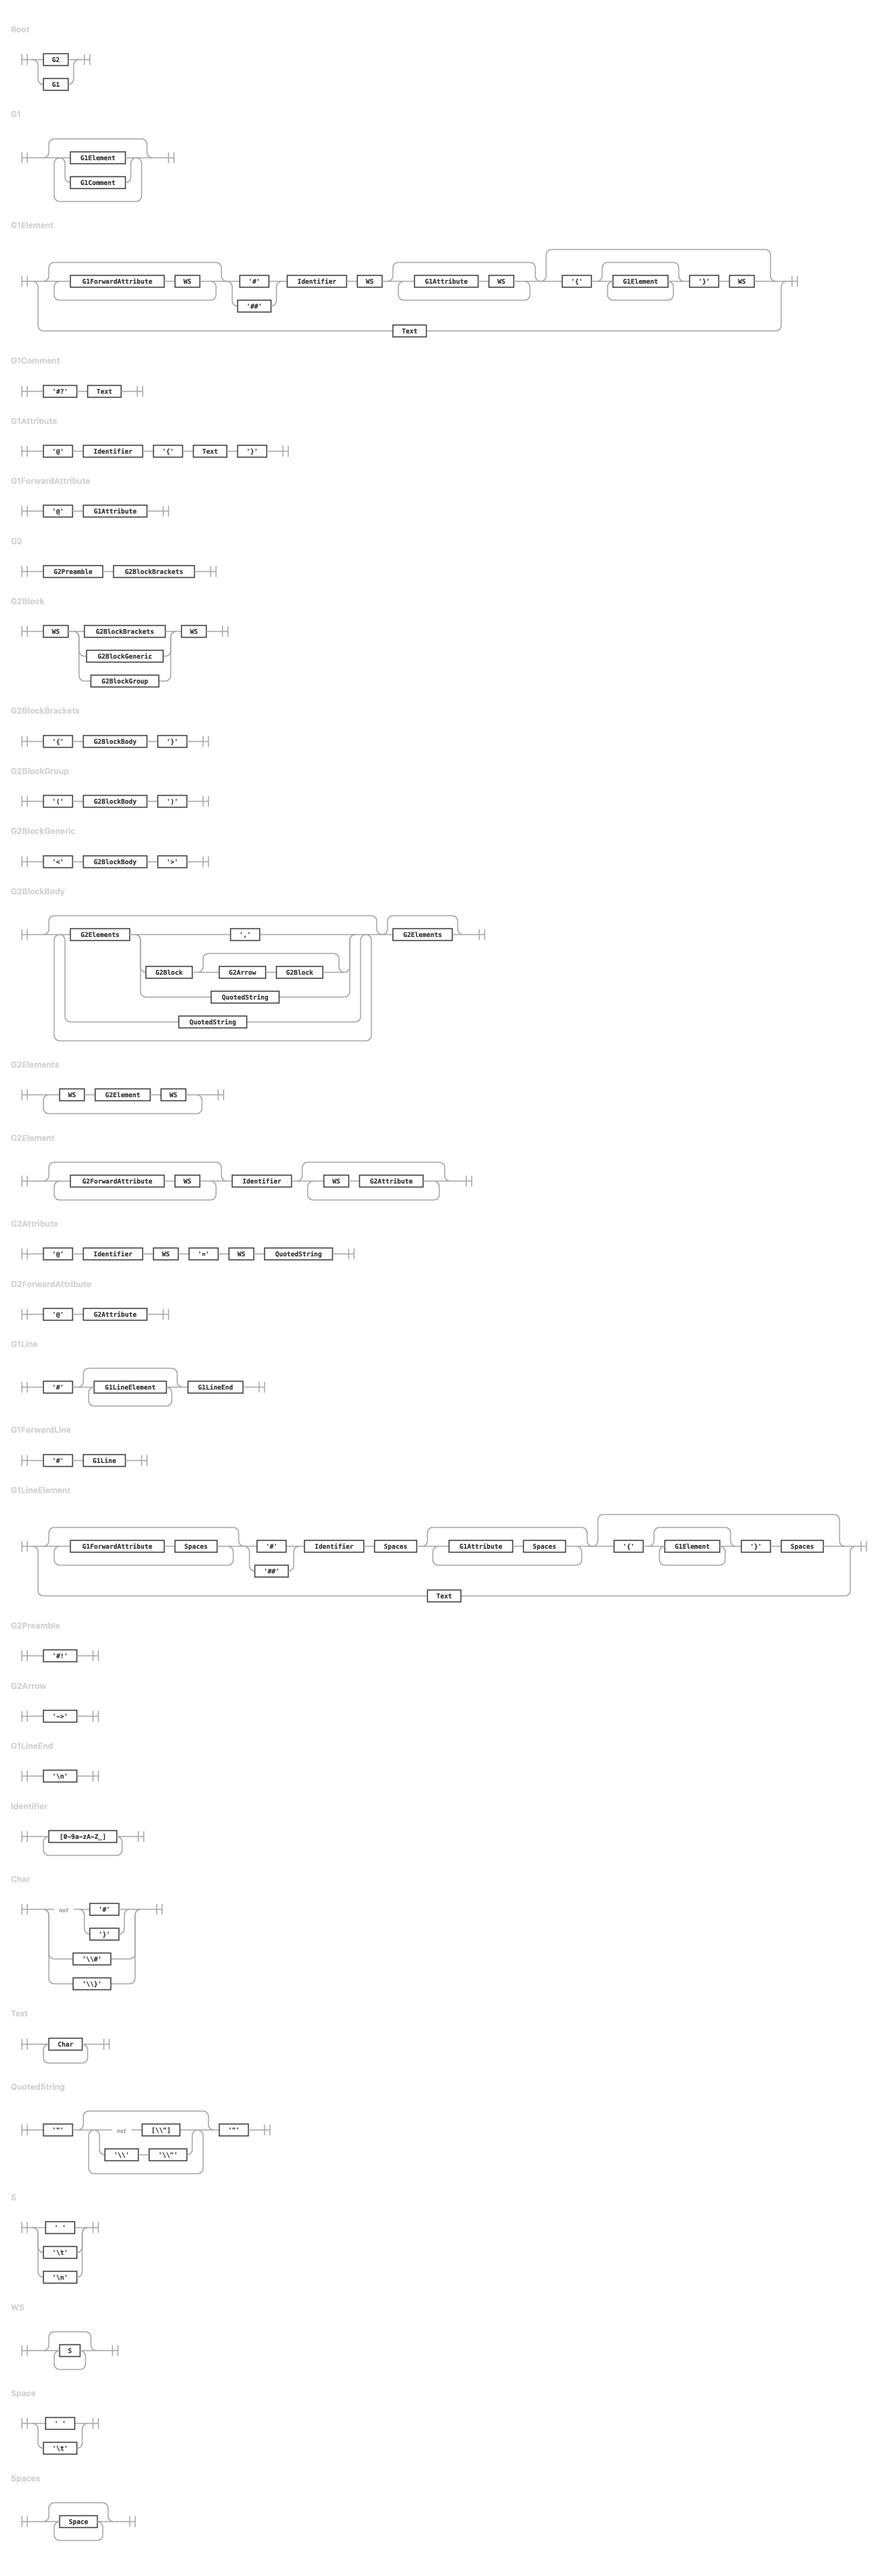
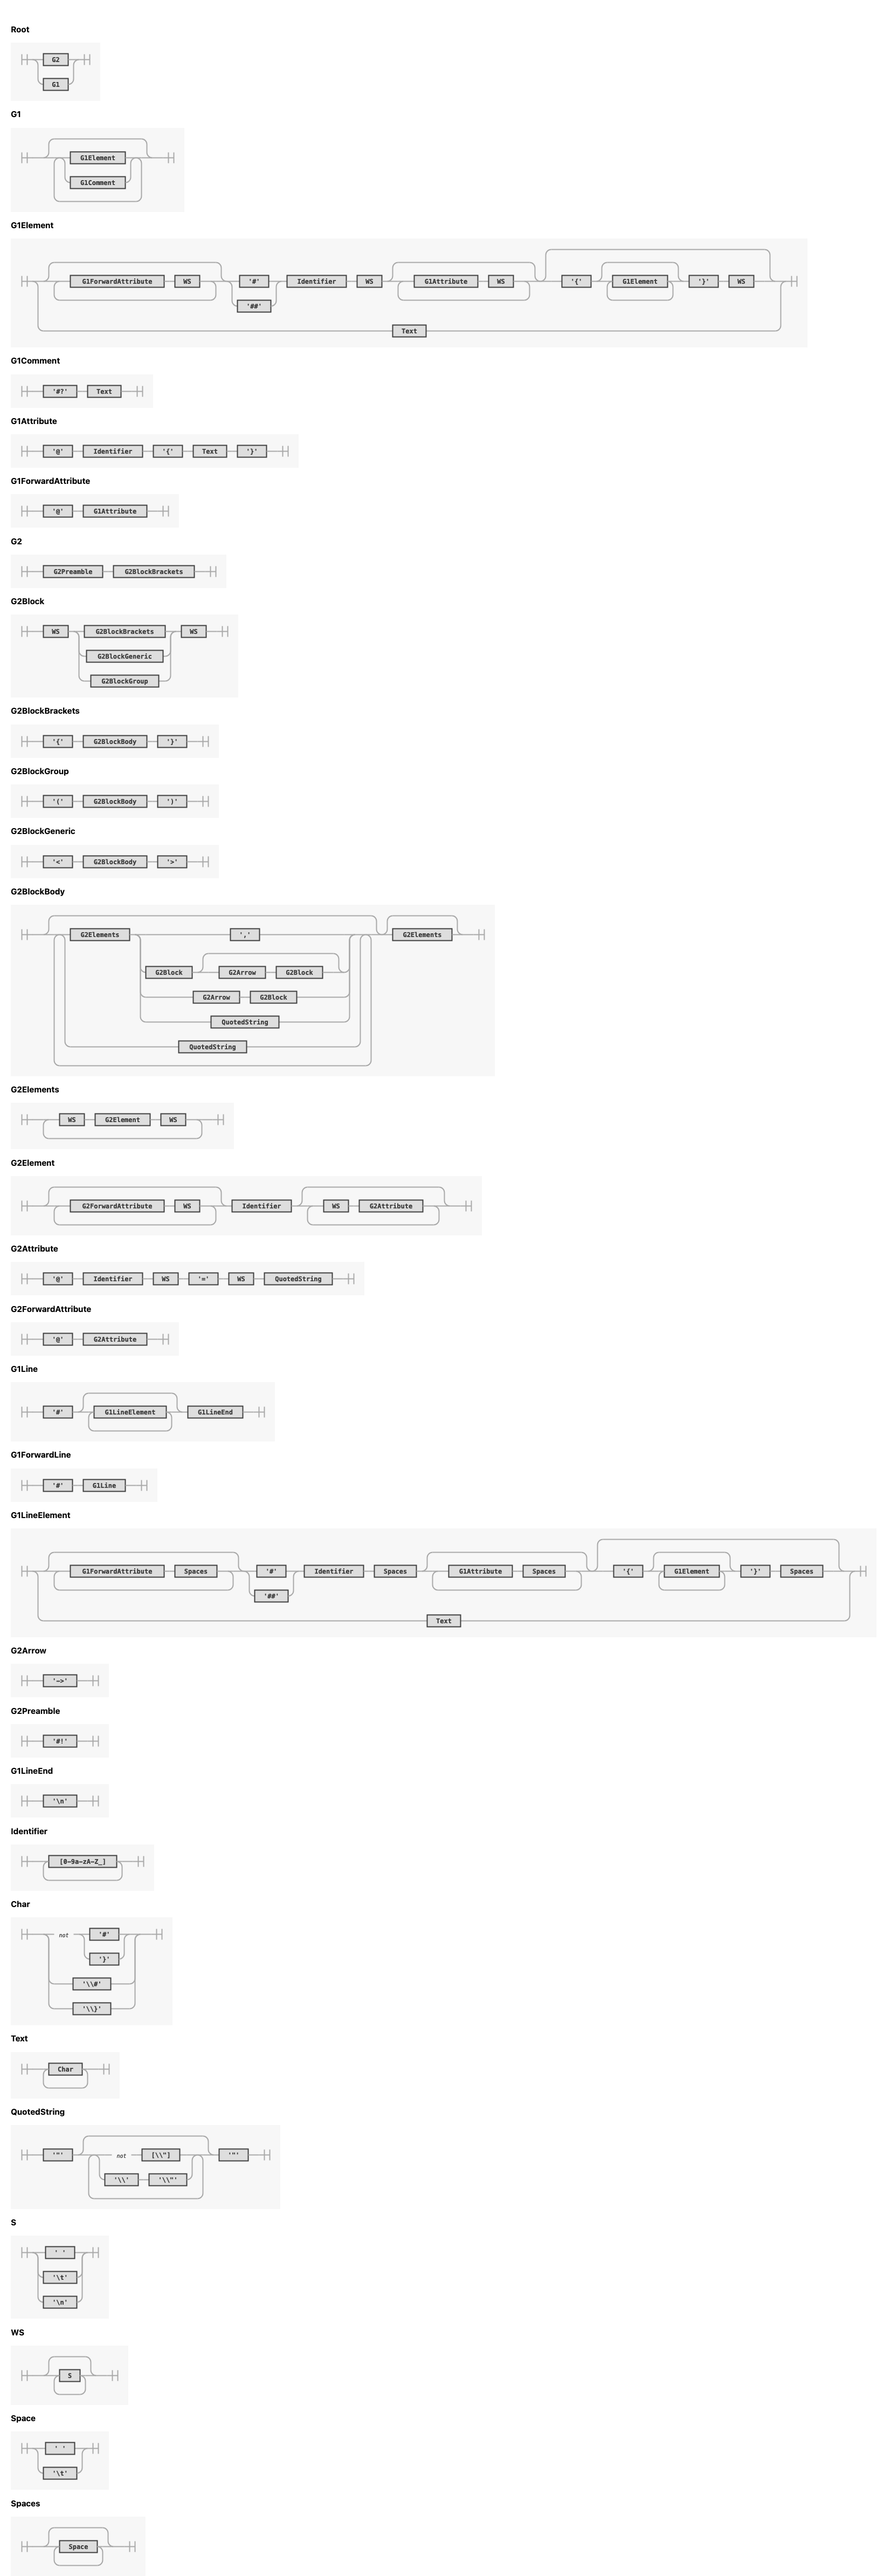
Make arrow more flexible
It's now allowed after blocks and plain elements.

Changed region(s): [[0.0, 0.0, 0.984, 0.8704], [0.0308, 0.8704, 0.123, 0.9947]]

diff --git a/parser/parser.go b/parser/parser.go
@@ -594,11 +594,23 @@ func (p *Parser) g2Node() (*TreeNode, error) {
 		if err := p.g2ParseBlock(node); err != nil {
 			return nil, err
 		}
+
+		// There might be an arrow after this block
+		tok, err = p.peek()
+		if tok != nil && tok.TokenType() == token.TokenG2Arrow {
+			if err := p.g2ParseArrow(node); err != nil {
+				return nil, err
+			}
+		}
 	case *token.BlockEnd, *token.GroupEnd, *token.GenericEnd:
 		// Any closing token ends this node and will be handled by the parent.
 	case *token.Comma:
 		// Comma ends a node definition
 		p.next()
+	case *token.G2Arrow:
+		if err := p.g2ParseArrow(node); err != nil {
+			return nil, err
+		}
 	default:
 		child, err := p.g2Node()
 		if err != nil {
@@ -699,10 +711,6 @@ func (p *Parser) g2ParseBlock(node *TreeNode) error {
 			p.next() // pop closing token
 
 			break
-		} else if tok.TokenType() == token.TokenG2Arrow {
-			if err := p.g2ParseArrow(node); err != nil {
-				return err
-			}
 		} else if tok.TokenType() == token.TokenDefineElement {
 			children, err := p.g1LineNodes()
 			if err != nil {
@@ -725,11 +733,12 @@ func (p *Parser) g2ParseBlock(node *TreeNode) error {
 // g2ParseArrow is used to parse the return arrow, which has special semantics.
 // It is used to append a "ret" element containing function return values to a
 // function definition. For this to work, the function must be defined as:
-//     func name(...) -> (...)
-// The "func" element can be named differently, but it must be there, as the
-// "ret" element will be placed inside it. "ret" will contain everything defined
-// in the block after "->".
-// The blocks "(...)" are required, but can be any valid blocks.
+//     name(...) -> (...)
+// or
+//     name -> (...)
+// The "name" element will get a new child named "ret" appended that contains
+// all children in the block after "->".
+// The block "(...)" is required after the arrow, but can be any valid block.
 func (p *Parser) g2ParseArrow(node *TreeNode) error {
 	// Expect arrow
 	tok, err := p.next()
@@ -741,29 +750,13 @@ func (p *Parser) g2ParseArrow(node *TreeNode) error {
 		return token.NewPosError(tok.Pos(), "'->' expected")
 	}
 
-	// Arrow cannot be the first element in a block
-	if len(node.Children) == 0 {
-		return token.NewPosError(tok.Pos(), "'->' not allowed by itself")
-	}
-
-	parent := node.Children[len(node.Children)-1]
-
-	// Verify that the last child of the element we want to place "ret" in has a block.
-	if len(parent.Children) == 0 {
-		return token.NewPosError(tok.Pos(), "'->' not allowed by itself")
-	}
-
-	if parent.Children[len(parent.Children)-1].BlockType == BlockNone {
-		return token.NewPosError(tok.Pos(), "'->' requires previous element to have a block")
-	}
-
 	retNode := NewNode("ret")
 
 	if err := p.g2ParseBlock(retNode); err != nil {
 		return err
 	}
 
-	parent.AddChildren(retNode)
+	node.AddChildren(retNode)
 
 	return nil
 }

diff --git a/parser/parser_test.go b/parser/parser_test.go
@@ -484,13 +484,11 @@ func TestParser(t *testing.T) {
 		{
 			name: "g2 return arrow",
 			text: `#!{
-						func hello(string) -> (int)
+						hello(string) -> (int)
 					}`,
 			want: NewNode("root").Block(BlockNormal).AddChildren(
-				NewNode("func").AddChildren(
-					NewNode("hello").Block(BlockGroup).AddChildren(
-						NewNode("string"),
-					),
+				NewNode("hello").Block(BlockGroup).AddChildren(
+					NewNode("string"),
 					NewNode("ret").Block(BlockGroup).AddChildren(
 						NewNode("int"),
 					),
@@ -505,14 +503,20 @@ func TestParser(t *testing.T) {
 			wantErr: true,
 		},
 		{
-			name: "g2 invalid return arrow after element",
+			name: "g2 return arrow after element without block",
 			text: `#!{
 						x -> (y)
 					}`,
-			wantErr: true,
+			want: NewNode("root").Block(BlockNormal).AddChildren(
+				NewNode("x").AddChildren(
+					NewNode("ret").Block(BlockGroup).AddChildren(
+						NewNode("y"),
+					),
+				),
+			),
 		},
 		{
-			name: "g2 invalid return arrow after element without block",
+			name: "g2 invalid return arrow after comma",
 			text: `#!{
 						x, -> (y)
 					}`,
@@ -527,9 +531,9 @@ func TestParser(t *testing.T) {
 				NewNode("fn").AddChildren(
 					NewNode("x").Block(BlockGeneric).AddChildren(
 						NewNode("y"),
-					),
-					NewNode("ret").Block(BlockGeneric).AddChildren(
-						NewNode("z"),
+						NewNode("ret").Block(BlockGeneric).AddChildren(
+							NewNode("z"),
+						),
 					),
 				),
 			),
@@ -562,10 +566,10 @@ func TestParser(t *testing.T) {
 							NewNode("x").AddChildren(NewNode("int")),
 							NewNode("y").AddChildren(NewNode("int")),
 							NewNode("z").AddChildren(NewNode("string")),
-						),
-						NewNode("ret").Block(BlockGroup).AddChildren(
-							NewNode("int"),
-							NewNode("error"),
+							NewNode("ret").Block(BlockGroup).AddChildren(
+								NewNode("int"),
+								NewNode("error"),
+							),
 						),
 					),
 			),
